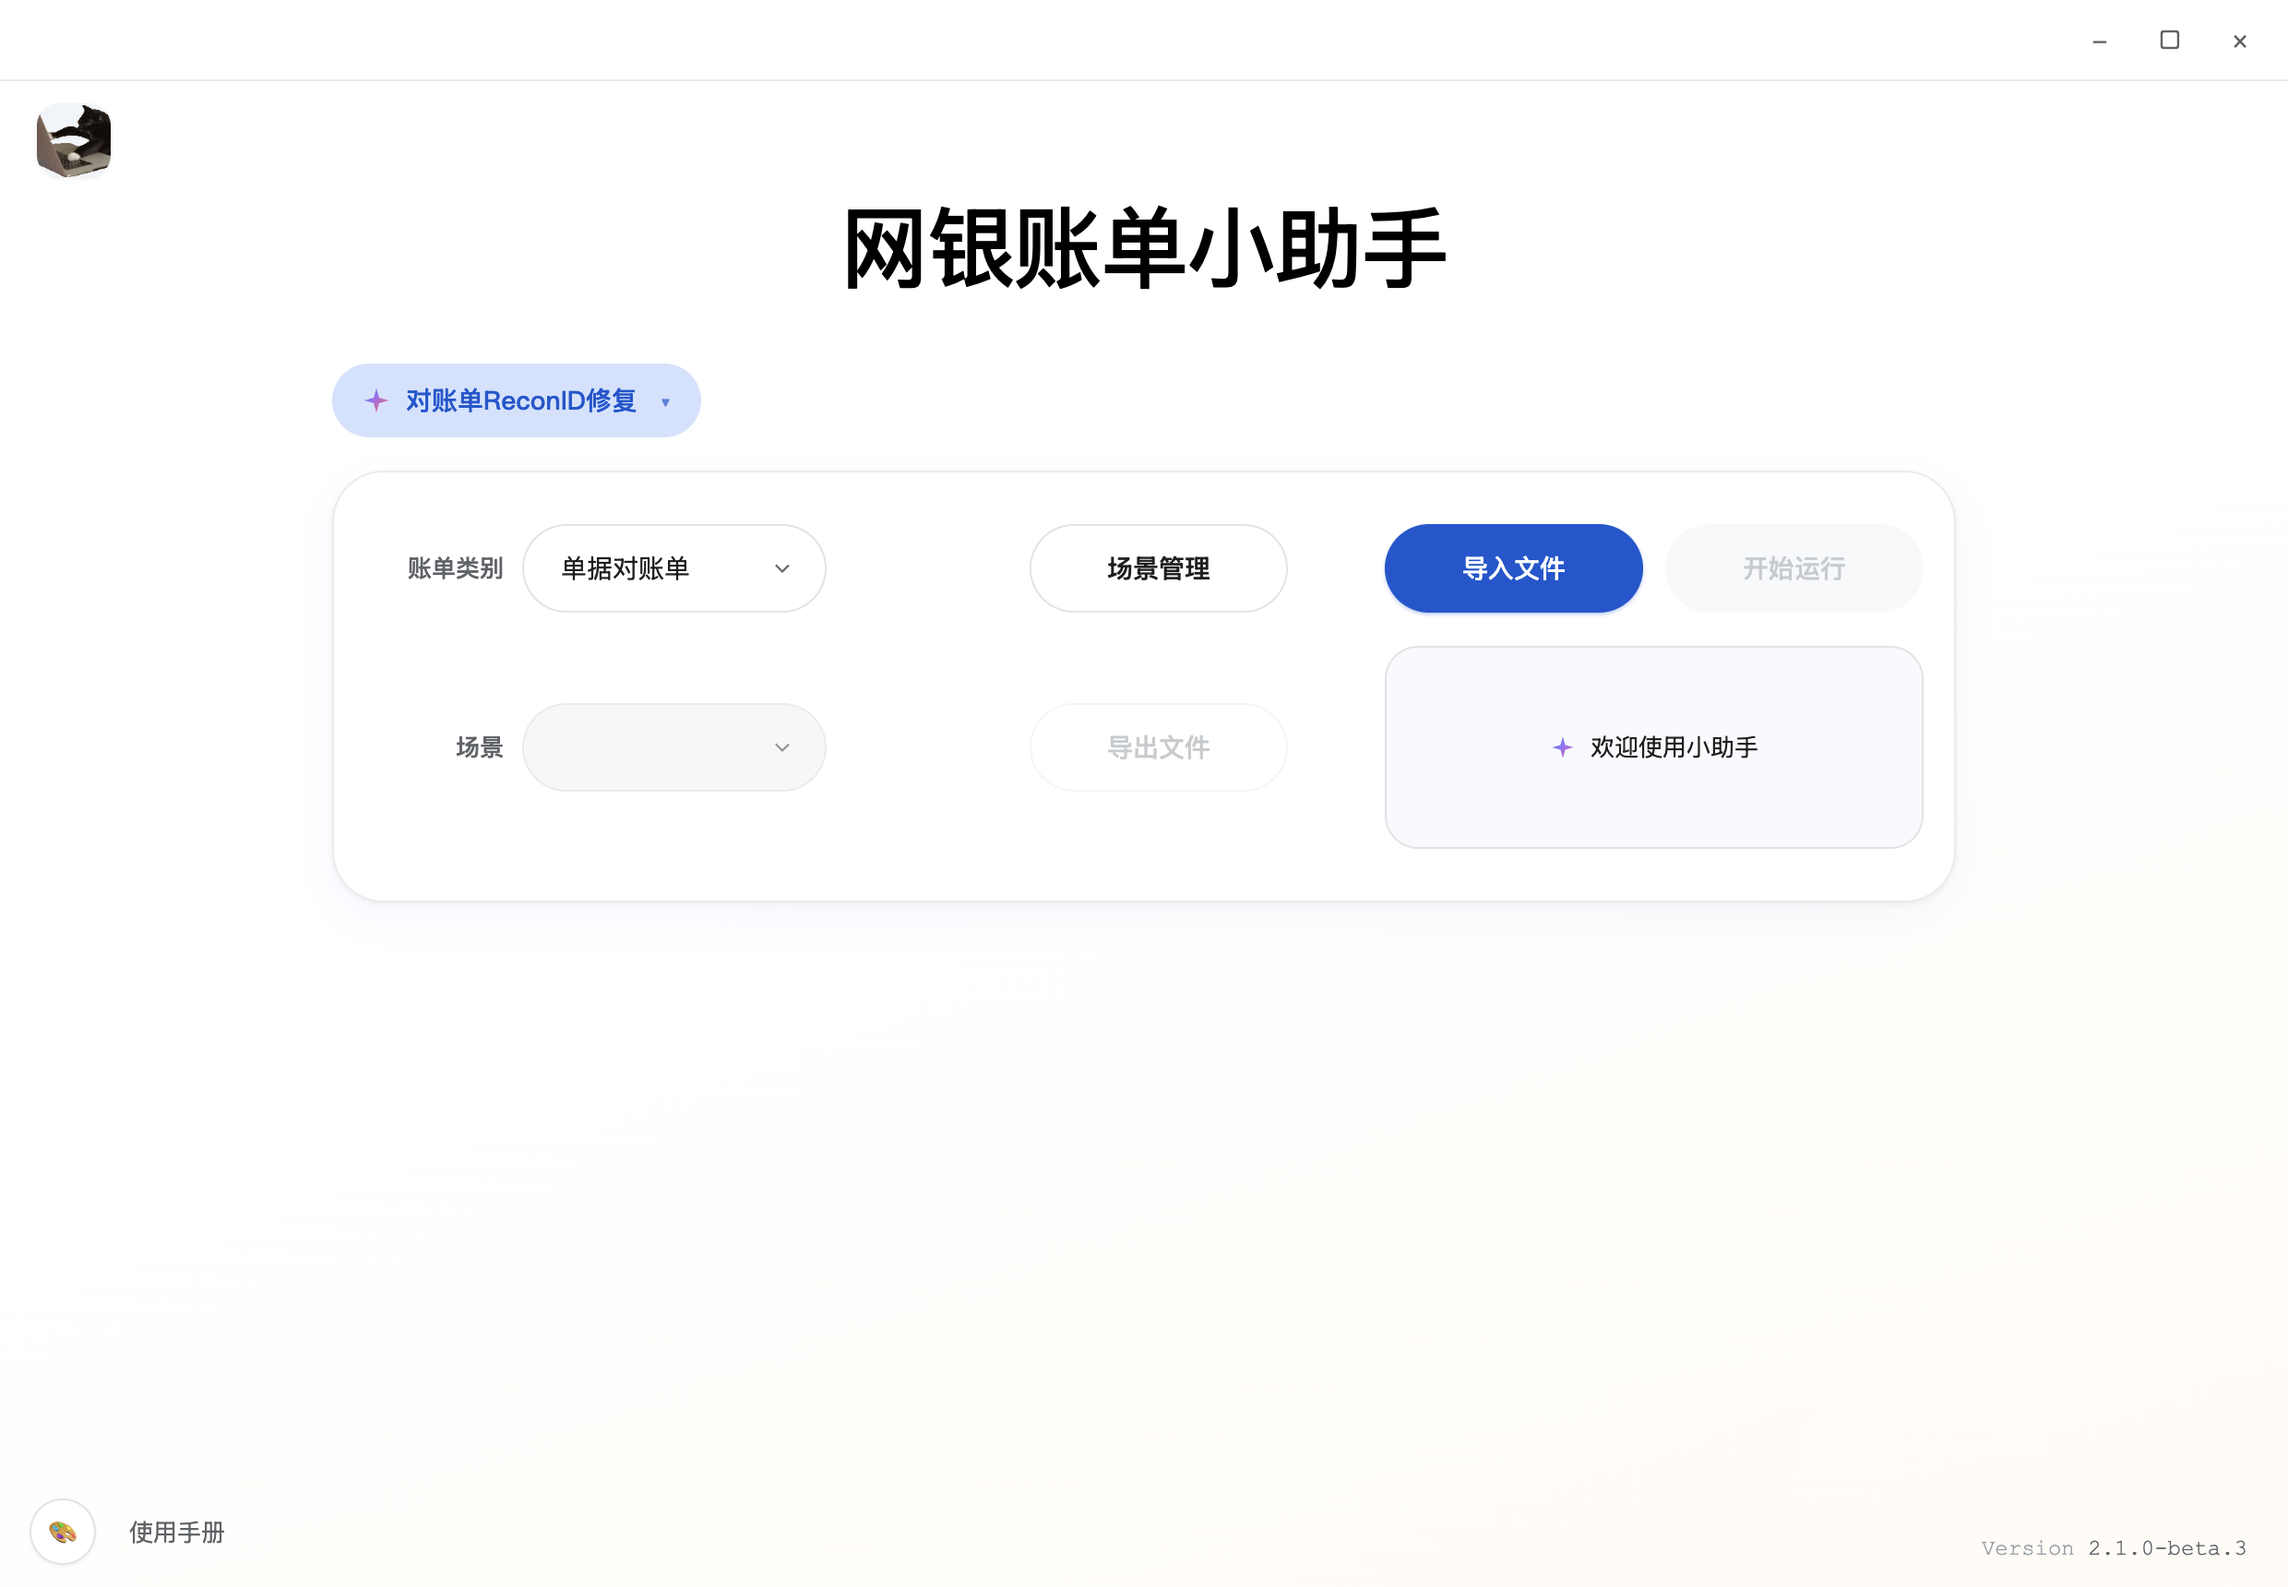
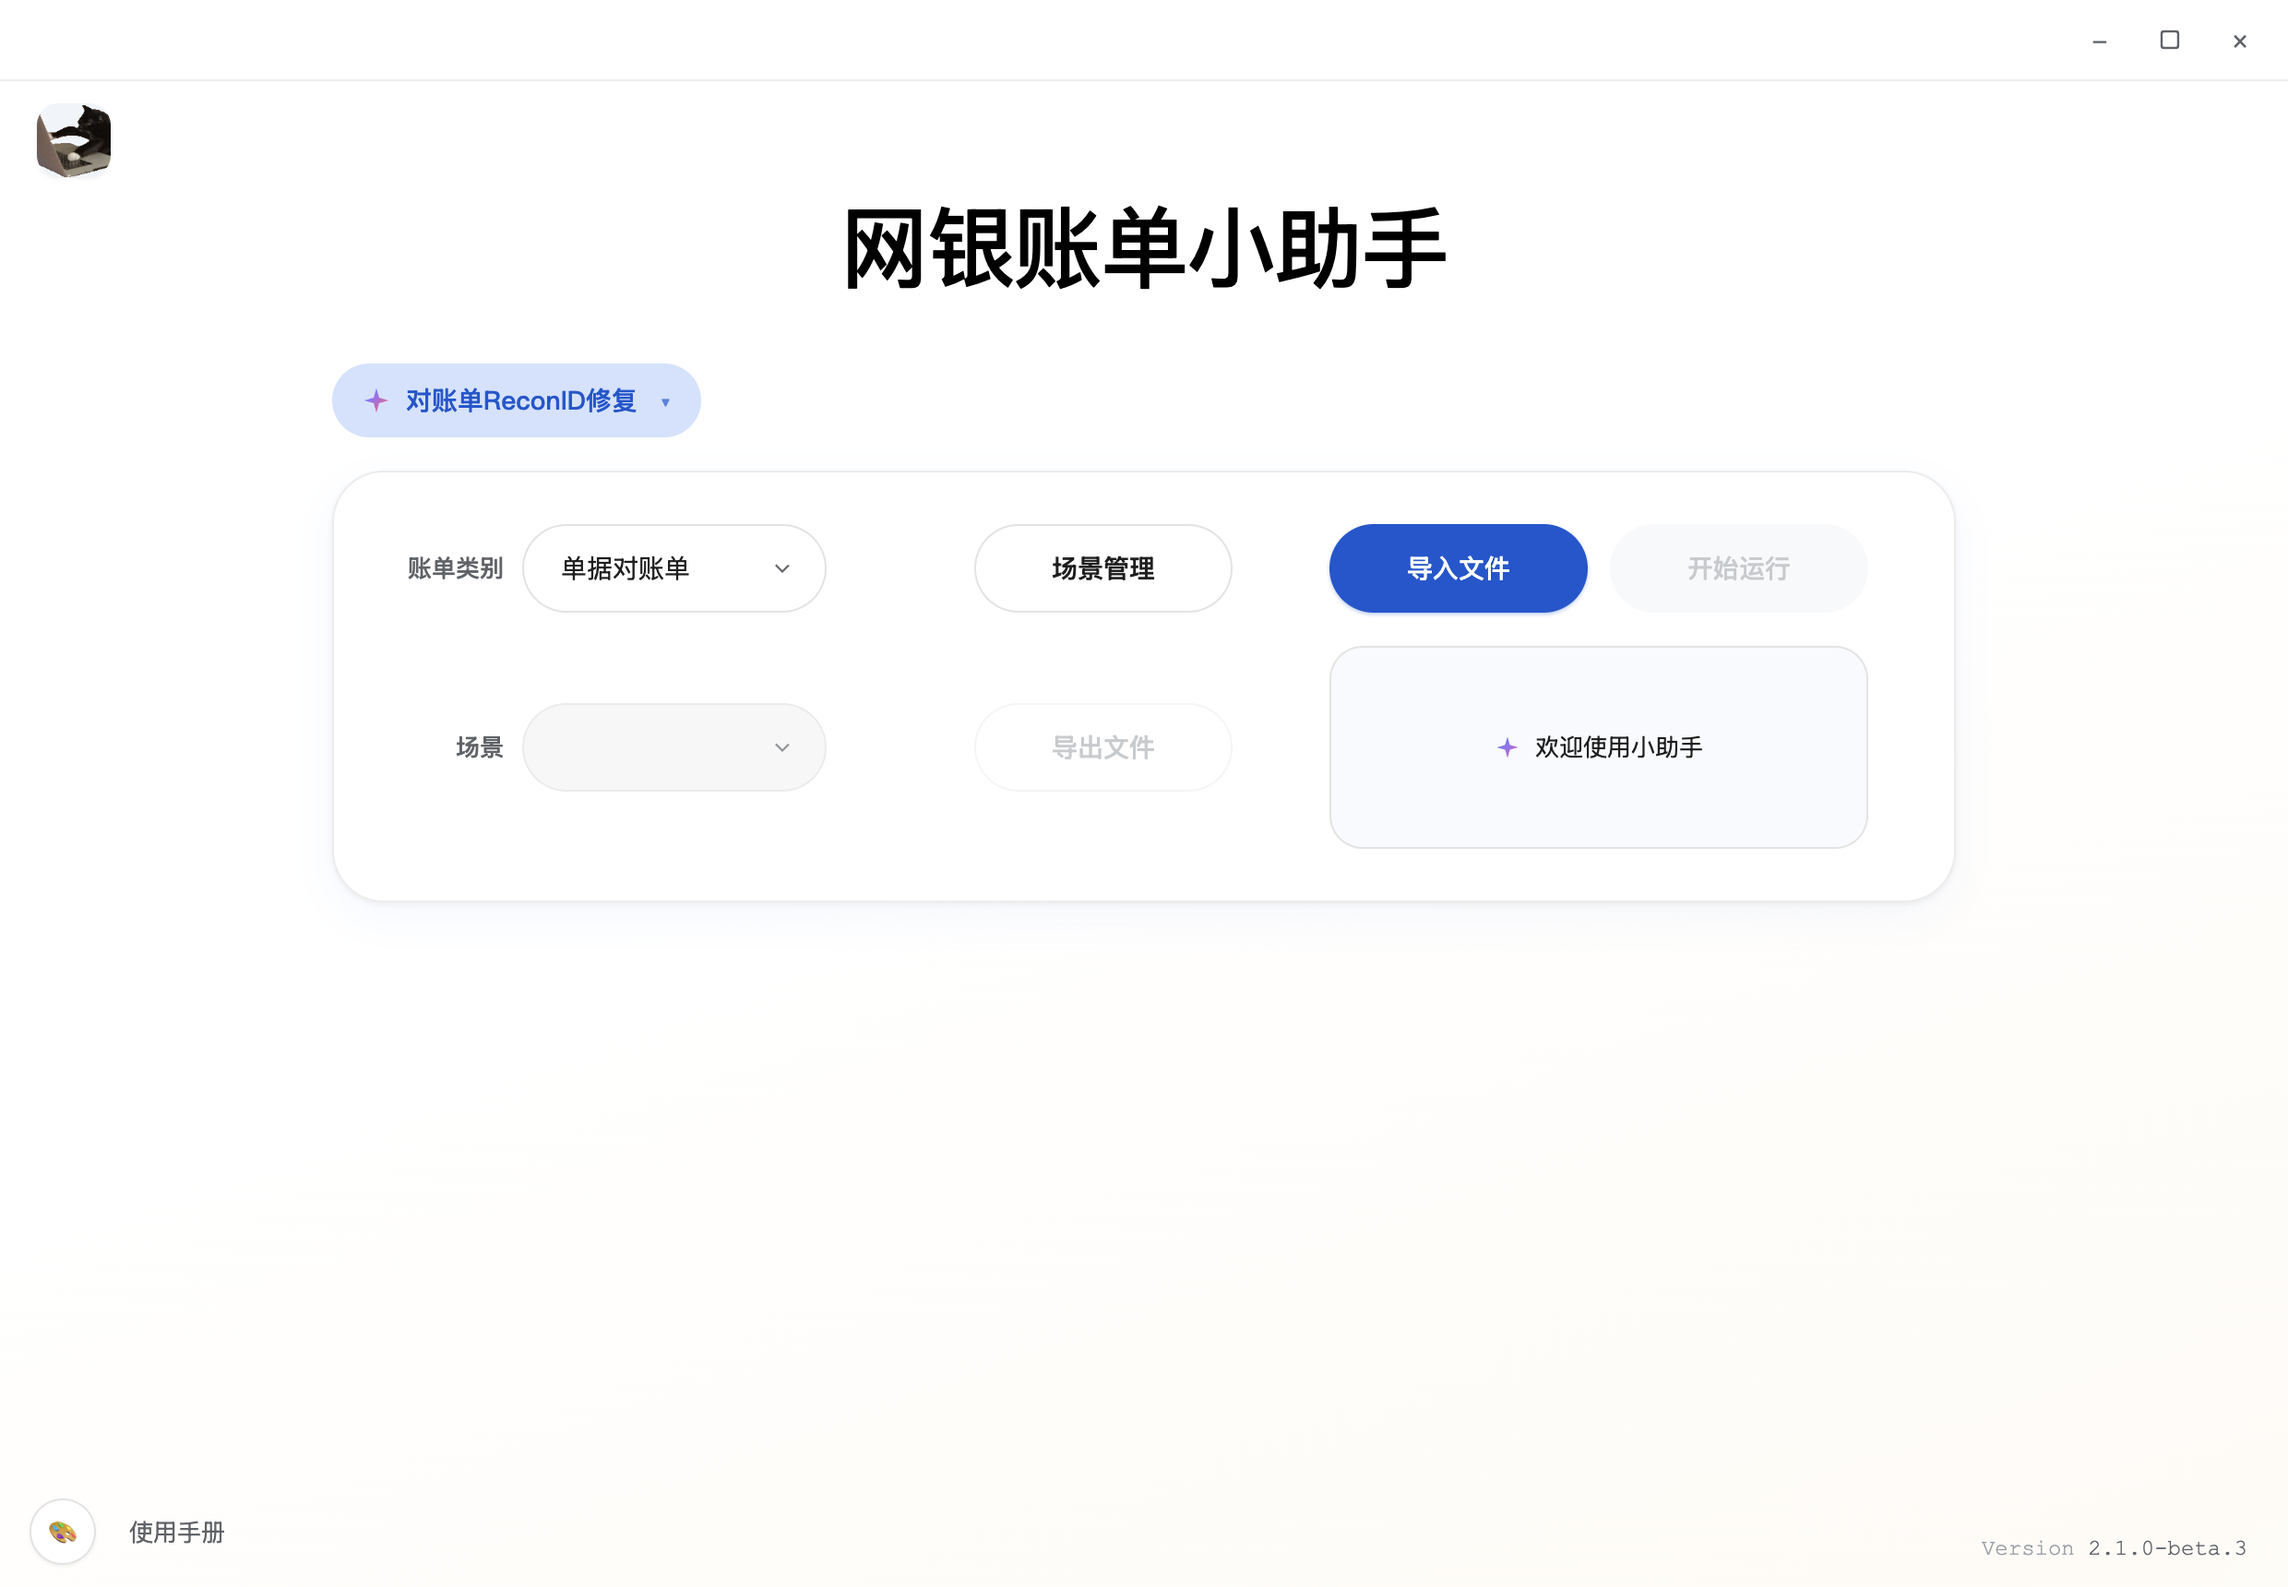
[v2.1.0-beta.3] fix(t11-feedback-6): 场景管理/导出文件/导入文件/开始运行/状态框 整体往左平移 30px
用户反馈：5 个元素整体往左平移 30px
修复（styles-gemini-extra.css）：
- #reconIdFixManageScenariosBtn / #reconIdFixExportBtn：transform translateX 100px → 70px
- .pending-action-pair / #reconIdFixStatusBox：transform translateX 74px → 44px
相对位置保持不变（场景管理↔导入文件距离仍 84px = 110-70+44，与原 110-100+74=84 一致）
preview 重跑 3 张主面板：5 元素整体左移 30px，账单类别/场景下拉位置不变
回归：npm run smoke 14 子套全绿

diff --git a/src/styles-gemini-extra.css b/src/styles-gemini-extra.css
@@ -1015,14 +1015,17 @@ tr.add-row .text-action:hover { background: #c2d7fa; }
    用 transform: translateX 单独给 4 个元素右移：
    - [场景管理]/[导出文件] 右移 100px
    - [pending-action-pair]/[statusBox] 右移 74px（用户复测后从 47 增至 74，让距离 ≈ 80px = 原 53px 的 1.5 倍）
-   - 最终 [场景管理 右]↔[导入文件 左] 距离 = 106 - 100 + 74 = 80px */
+   - 最终 [场景管理 右]↔[导入文件 左] 距离 = 106 - 100 + 74 = 80px
+   v2.1.0-beta.3 修订（用户反馈）：场景管理/导出文件/导入文件/开始运行/状态框 整体往左 30px
+   - [场景管理]/[导出文件] 100 - 30 = 70px
+   - [pending-action-pair]/[statusBox] 74 - 30 = 44px */
 .recon-id-fix-board #reconIdFixManageScenariosBtn,
 .recon-id-fix-board #reconIdFixExportBtn {
-  transform: translateX(100px);
+  transform: translateX(70px);
 }
 .recon-id-fix-board .pending-action-pair,
 .recon-id-fix-board #reconIdFixStatusBox {
-  transform: translateX(74px);
+  transform: translateX(44px);
 }
 .pending-board .pending-status {
   width: 100%;
